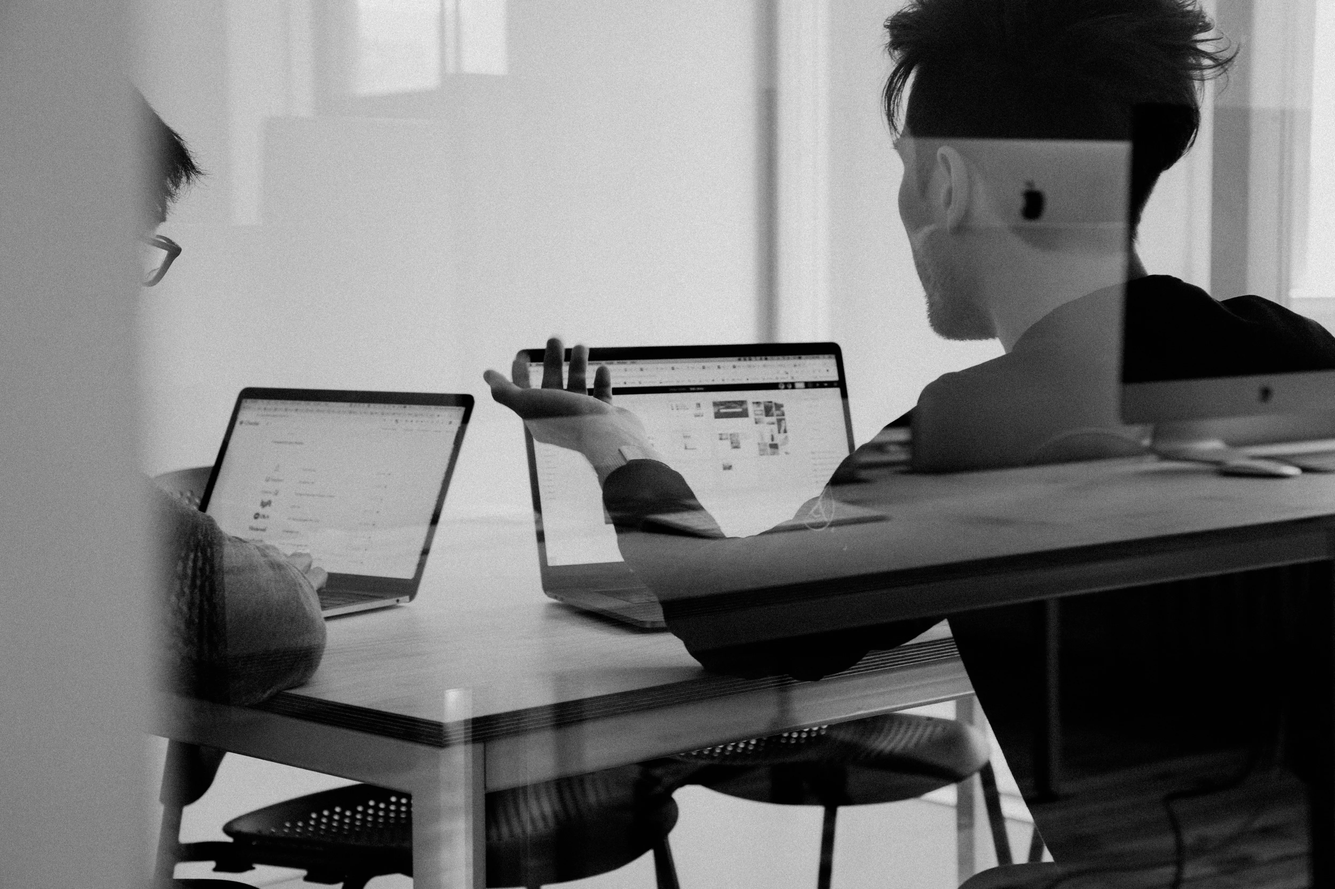
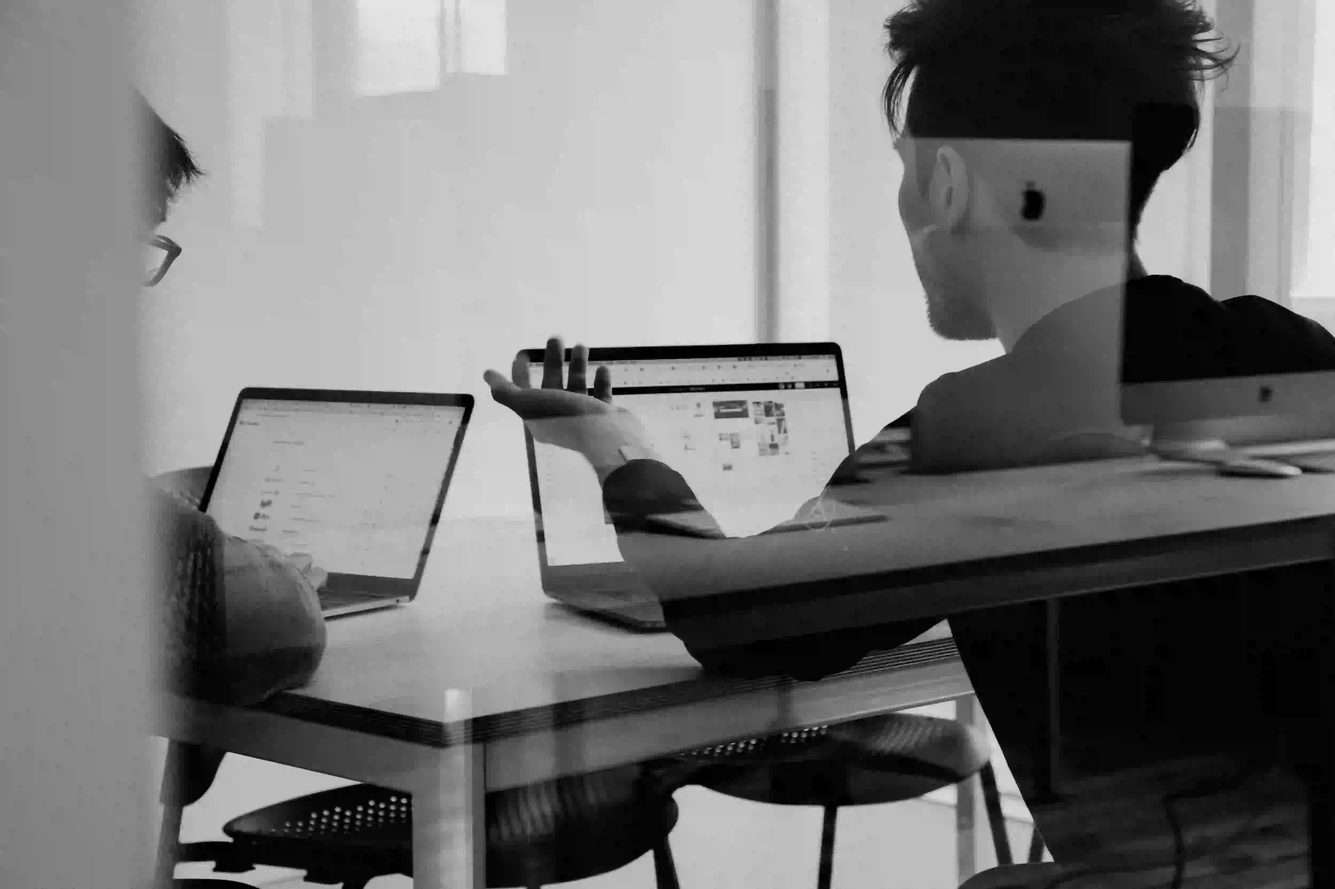
2024/02/18 ・画像最適化

Changed region(s): [[0.1248, 0.1872, 0.156, 0.2184]]

diff --git a/src/pages/Works.tsx b/src/pages/Works.tsx
@@ -1,63 +1,42 @@
-import { useEffect, useState } from 'react';
-// import { useLocation } from 'react-router-dom';
 import { Link } from 'react-router-dom';
 import { Footer } from '../components/common/Footer';
 import { Header } from '../components/common/Header';
-import { Loading } from '../components/animetions/Loading';
 
 export const Works = () => {
-  const [loading, setLoading] = useState<Boolean>(true);
-
-  useEffect(() => {
-    setTimeout(() => setLoading(false), 1000);
-  }, []);
-
   return (
     <>
-      {loading ? (
-        <Loading />
-      ) : (
-        <>
-          <Header />
-          <section className="works">
-            <div className="works__container">
-              <h1 className="works__title">Works</h1>
-              <p className="works__lead">
-                これまで開発してきたプロダクト達です
-              </p>
-              <div className="works__wrapper">
-                <Link
-                  className="works__card works__card--personal"
-                  to={'/personal/1'}
-                >
-                  <div className="works__card--wrapper">
-                    <h1 className="works__card--heading">
-                      Personal development
-                    </h1>
-                    <p className="works__card--lead">
-                      これまで個人で開発してきたプロダクトです
-                    </p>
-                  </div>
-                </Link>
-                <Link
-                  className="works__card works__card--business"
-                  to={'/business/1'}
-                >
-                  <div className="works__card--wrapper">
-                    <h1 className="works__card--heading">
-                      Business development
-                    </h1>
-                    <p className="works__card--lead">
-                      これまで業務で開発してきたプロダクトです
-                    </p>
-                  </div>
-                </Link>
+      <Header />
+      <section className="works">
+        <div className="works__container">
+          <h1 className="works__title">Works</h1>
+          <p className="works__lead">これまで開発してきたプロダクト達です</p>
+          <div className="works__wrapper">
+            <Link
+              className="works__card works__card--personal"
+              to={'/personal/1'}
+            >
+              <div className="works__card--wrapper">
+                <h1 className="works__card--heading">Personal development</h1>
+                <p className="works__card--lead">
+                  これまで個人で開発してきたプロダクトです
+                </p>
               </div>
-            </div>
-          </section>
-          <Footer />
-        </>
-      )}
+            </Link>
+            <Link
+              className="works__card works__card--business"
+              to={'/business/1'}
+            >
+              <div className="works__card--wrapper">
+                <h1 className="works__card--heading">Business development</h1>
+                <p className="works__card--lead">
+                  これまで業務で開発してきたプロダクトです
+                </p>
+              </div>
+            </Link>
+          </div>
+        </div>
+      </section>
+      <Footer />
     </>
   );
 };

diff --git a/src/pages/Personal.tsx b/src/pages/Personal.tsx
@@ -75,6 +75,9 @@ export const Personal = () => {
                           className="personal__card--image"
                           src={post.image.url}
                           alt="これまで個人で開発してきたプロダクトの画像"
+                          height={''}
+                          width={''}
+                          loading="lazy"
                         />
                         <p className="personal__card--lead">{post.name}</p>
                       </Link>

diff --git a/src/components/common/Profile.tsx b/src/components/common/Profile.tsx
@@ -10,6 +10,9 @@ export const Profile = () => {
                 className="profile__image--layout"
                 src={'/images/profile-image.webp'}
                 alt="profile image"
+                height={''}
+                width={''}
+                loading="lazy"
               />
             </div>
             <p className="profile__text">
